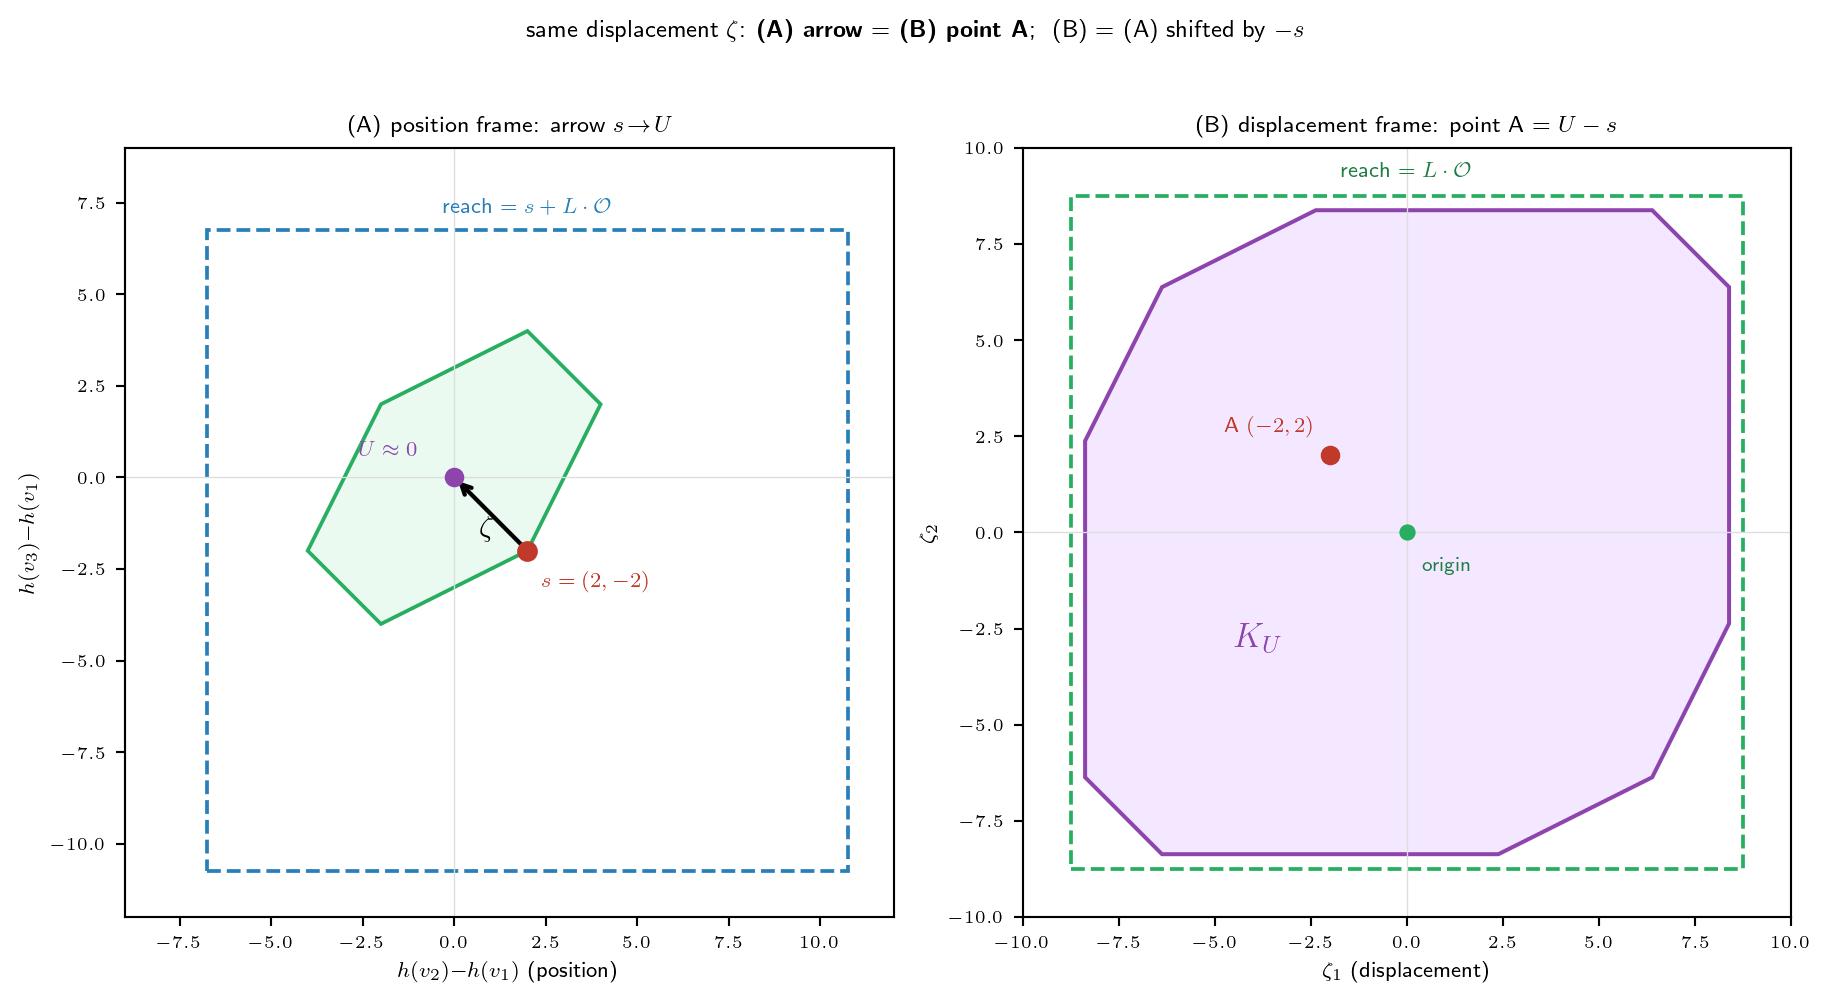
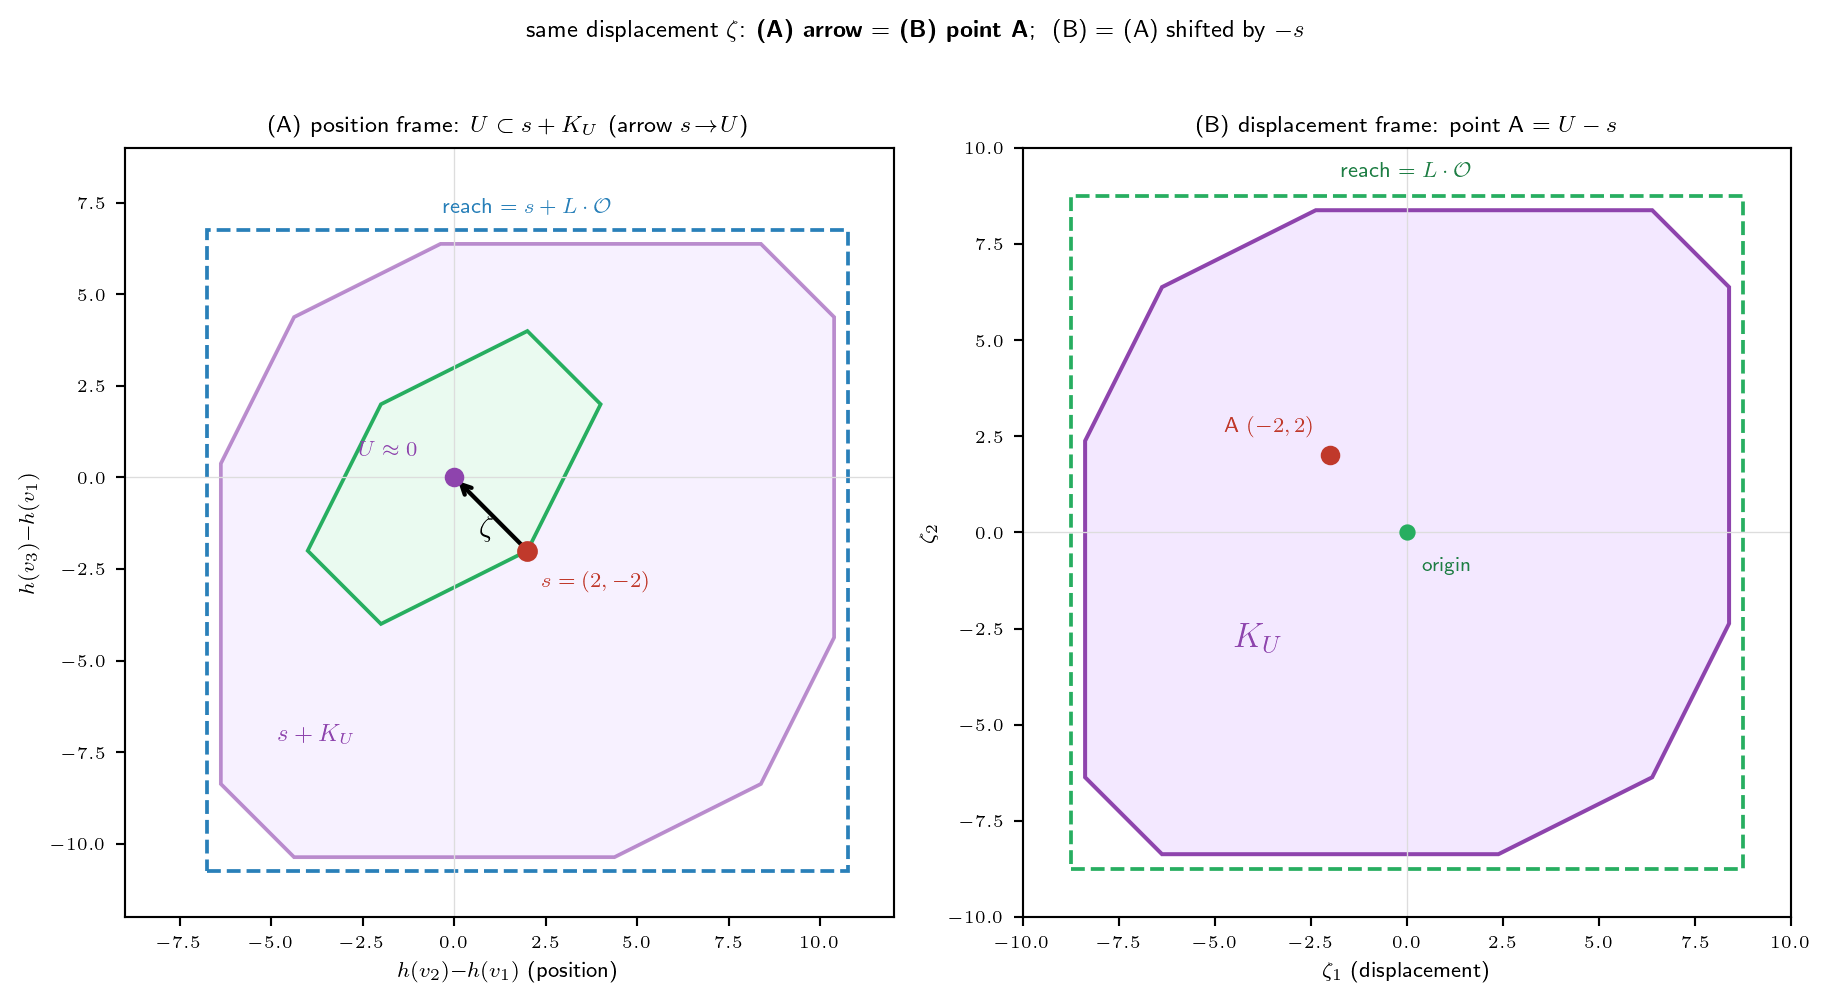
post(add): petite/K3 — 통일 그림 (A)에 s+K_U 추가, U⊂s+K_U 시각화
위치 공간에 s+K_U(평행이동 zonotope) 그려 도착 U가 그 안에 듦을 명시 (u=h̊(s)+ζ+r). U는 위치라 변위 그림 아닌 s+K_U에 든다는 점 캡션 보강.

diff --git a/docs/Posts/260605_c4e5ad.html b/docs/Posts/260605_c4e5ad.html
@@ -251,7 +251,7 @@ window.Quarto = {
 <p><strong>(1) 높이차 <span class="math inline">\(\mathring{\mathbf{h}}\)</span></strong> — <span class="math inline">\(v_1\)</span>을 기준으로 뺀 anchored 높이차: <span class="math display">\[\mathring{\mathbf{h}}(s) = \bigl(h(v_2) - h(v_1),\ h(v_3) - h(v_1)\bigr) = (7-5,\ 3-5) = (2, -2).\]</span></p>
 <p><strong>(2) 현재 노드 <span class="math inline">\(X\)</span></strong> — walker가 지금 있는 노드 (예: <span class="math inline">\(v_1\)</span>).</p>
 <p>→ 우리 예제의 상태는 <span class="math inline">\(s = \bigl((2,-2),\ v_1\bigr)\)</span>이다. (<span class="math inline">\(\mathring{\mathbf{h}}\)</span>가 절대높이 <span class="math inline">\(5,7,3\)</span>을 안 기억해도 되는 이유: 눈은 모든 노드에 똑같이 와 닿는 게 아니라 <strong>높이차</strong>만 동역학에 들어오기 때문. 높이를 통째로 <span class="math inline">\(+10\)</span> 해도 같은 상태.)</p>
-<div id="cab3b91a" class="cell" data-execution_count="1">
+<div id="50ad5644" class="cell" data-execution_count="1">
 <div class="cell-output cell-output-display">
 <div>
 <figure class="figure">
@@ -274,7 +274,7 @@ window.Quarto = {
 <p>로 정의한다. (<span class="math inline">\(K_3\)</span> 예제: <span class="math inline">\(\bar h = \tfrac{5+7+3}{3} = 5\)</span>, <span class="math inline">\(\hbar = (0, 2, -2)\)</span>, 따라서 <span class="math inline">\(M(s) = 2\)</span>.) small set은 이 <span class="math inline">\(M\)</span>의 sublevel:</p>
 <p><span class="math display">\[C_0 = \{\, M \leq M_0 \,\} \times V, \qquad \text{이 예제 } M_0 := 2.\]</span></p>
 <p>우리 <span class="math inline">\(s\)</span>는 <span class="math inline">\(M(s) = 2 = M_0\)</span>이라 <span class="math inline">\(C_0\)</span> <strong>경계</strong>(사실 꼭짓점) 위 — <span class="math inline">\(v_2\)</span>가 천장, <span class="math inline">\(v_3\)</span>가 바닥인 <strong>가장 치우친 worst case</strong>다. <span class="math inline">\(M\)</span>은 anchored 좌표 <span class="math inline">\(\mathring{\mathbf{h}}=(u_1,u_2)\)</span> (<span class="math inline">\(u_1{=}h(v_2){-}h(v_1)\)</span>, <span class="math inline">\(u_2{=}h(v_3){-}h(v_1)\)</span>)만으로도 쓸 수 있고(<span class="math inline">\(\hbar = (0,u_1,u_2)-\tfrac{u_1+u_2}{3}\mathbf{1}\)</span>), <span class="math inline">\(C_0\)</span>는 그 평면에서 <strong>육각형</strong>(<span class="math inline">\(\times V\)</span>, 꼭짓점 <span class="math inline">\(\pm(4,2),\pm(2,4),\pm(2,-2)\)</span>)으로 나타난다.</p>
-<div id="98a5d07d" class="cell" data-execution_count="2">
+<div id="8f5d3a32" class="cell" data-execution_count="2">
 <div class="cell-output cell-output-display">
 <div>
 <figure class="figure">
@@ -313,7 +313,7 @@ window.Quarto = {
 </ul>
 <p>위 밀도 하한의 유도 (왜 <span class="math inline">\(\mathcal{O}\)</span> 위에서만 <span class="math inline">\(f \geq \tfrac12\)</span>인가): 증분 밀도 <span class="math inline">\(f\)</span>는 <span class="math inline">\(b^{\sharp}_1\)</span>을 적분해 없앤 것인데, 모든 <span class="math inline">\(|b^{\sharp}_i - b^{\sharp}_1| &lt; b/4\)</span>일 때 적분 구간이 길이 <span class="math inline">\(\geq b/2\)</span>를 품어 <span class="math inline">\(f \geq b^{1-n}/2\)</span>로 떨어진다 (<span class="math inline">\(b{=}1, n{=}3\)</span>이라 <span class="math inline">\(\tfrac12\)</span>). 그 조건이 정확히 <span class="math inline">\(\mathring{\mathbf{b}}^{\sharp} \in \mathcal{O}\)</span>.</p>
 <p><strong>주의 — <span class="math inline">\(\mathcal{O}\)</span>는 “한 블록으로 갈 수 있는 전부”가 아니다.</strong> 증분 <span class="math inline">\(\mathring{\mathbf{b}}^{\sharp} = (b^{\sharp}_2 - b^{\sharp}_1,\ b^{\sharp}_3 - b^{\sharp}_1)\)</span>은 각 <span class="math inline">\(b^{\sharp}_i \in [0,b]\)</span>라, 실제 <strong>도달 영역</strong>은 박스가 아니라 <strong>육각형</strong> <span class="math display">\[\{\, \zeta : |\zeta_1| \leq b,\ |\zeta_2| \leq b,\ |\zeta_1 - \zeta_2| \leq b \,\}\]</span> 이다 (증분도 높이차 벡터라 pairwise range <span class="math inline">\(\leq b=1\)</span>). 예컨대 모서리 <span class="math inline">\((b, -b)\)</span>는 <span class="math inline">\(b^{\sharp}_1\)</span>을 공유하는 제약 때문에 도달 불가(<span class="math inline">\(|x-y|=2b &gt; b\)</span>). 박스 <span class="math inline">\(\mathcal{O}\)</span>(한 좌표 <span class="math inline">\(\pm b/4\)</span>)는 그 육각형 <strong>안쪽의 밀도 <span class="math inline">\(\geq \tfrac12\)</span> 보장 부분</strong>일 뿐이다. 증명이 박스만 쓰는 이유: 깔끔한 밀도 하한 <span class="math inline">\(b^{1-n}/2\)</span>가 거기서만 나오기 때문 (육각형 안·박스 밖은 밀도가 양수지만 그 하한은 안 나옴). 아래 그림은 (A) <strong>큰 <span class="math inline">\(C_0\)</span> 안에 한 블록 도달역(작은 육각형)이 작게 들어있는 모습</strong> — 둘 다 육각형이지만 정의가 다르다(<span class="math inline">\(C_0\)</span>는 centered <span class="math inline">\(M\leq M_0{=}2\)</span>·원점 중심, 도달역은 pairwise range <span class="math inline">\(\leq b{=}1\)</span>·<span class="math inline">\(s{=}(2,-2)\)</span> 중심) — 과 (B) 그 도달역 줌인(도달 육각형 <span class="math inline">\(\supset\)</span> 밀도박스 <span class="math inline">\(\mathcal{O}\)</span>)을 보여준다.</p>
-<div id="6e3d3cc0" class="cell" data-execution_count="3">
+<div id="3655fd71" class="cell" data-execution_count="3">
 <div class="cell-output cell-output-display">
 <div>
 <figure class="figure">
@@ -328,7 +328,7 @@ window.Quarto = {
 <p><strong>정의 (도달역).</strong> 한 블록 증분이 밀도바닥 박스 <span class="math inline">\(\mathcal{O}\)</span> 안에 있을 때, <span class="math inline">\(L\)</span>블록을 누적한 총변위가 떨어질 수 있는 곳이 곧 Minkowski 합 <span class="math inline">\(L\cdot\mathcal{O}\)</span>다. 이 집합을 <strong>도달역</strong>(reachable region)이라 부른다 — “<span class="math inline">\(L\)</span>번 걸어서 닿을 수 있는 모든 점”. 출발점 <span class="math inline">\(s\)</span>에서 시작하면 도달역은 <span class="math inline">\(s + L\cdot\mathcal{O}\)</span>로 평행이동한다.</p>
 </blockquote>
 <p><span class="math inline">\(M_0 = 2\)</span>, <span class="math inline">\(b = 1\)</span>이라 <span class="math inline">\(L = \lceil 16\cdot 2 + 3 \rceil = 35\)</span>. 그러면 <span class="math inline">\(L\cdot\mathcal{O} = (-\tfrac{L}{4}, \tfrac{L}{4})^2 = (-8.75, 8.75)^2\)</span> — <strong>출발 <span class="math inline">\(\mathring{\mathbf{h}}(s)=(2,-2)\)</span>를 원점 근처로 끌어내릴 만큼 넉넉</strong>하다. (falls가 채울 변위 <span class="math inline">\(\zeta = u - \mathring{\mathbf{h}}(s) - r \approx (0,0)-(2,-2) = (-2,2)\)</span>가 <span class="math inline">\(\pm 8.75\)</span> 안에 푹 들어옴. 여기 <span class="math inline">\(r\)</span>은 <strong>non-fall 잔차</strong>로 ③에서 정의·범위를 못박는다.)</p>
-<div id="96c436a4" class="cell" data-execution_count="4">
+<div id="cb619bb7" class="cell" data-execution_count="4">
 <div class="cell-output cell-output-display">
 <div>
 <figure class="figure">
@@ -482,7 +482,7 @@ Important
 </div>
 </div>
 <p>A는 손잡이를 거의 안 돌린 <strong>중심 근처 변위</strong>(falls가 살짝만 밀면 됨), E는 둘을 극단으로 돌린 <strong>숙제 목록의 먼 표적</strong>. 도착지 <span class="math inline">\(U\)</span>는 원점 근처 <span class="math inline">\(\pm0.006\)</span>짜리 점만 한 요새지만, “<span class="math inline">\(-\mathring{\mathbf{h}}(s)\)</span> (최대 <span class="math inline">\(2M_0{=}4\)</span>)”와 “<span class="math inline">\(-r\)</span> (최대 <span class="math inline">\(4.375\)</span>)” 두 손잡이가 그걸 <strong><span class="math inline">\(\pm8.6\)</span>짜리 큰 집합으로 부풀린 게</strong> <span class="math inline">\(K_U\)</span>다. 아래 그림이 그 집합 전체(보라 zonotope)와 표적 A–E가 도달역 안에 어떻게 드는지 보여준다.</p>
-<div id="8b713944" class="cell" data-execution_count="5">
+<div id="d22bccea" class="cell" data-execution_count="5">
 <div class="cell-output cell-output-display">
 <div>
 <figure class="figure">
@@ -496,7 +496,7 @@ Important
 <p><strong>좌표계 주의 — 이 그림은 §2②의 도달역 그림과 축이 다르다.</strong> ②(LO_reach)는 <strong>위치 공간</strong>(축 <span class="math inline">\(h(v_i){-}h(v_1)\)</span>, 도달역이 출발 <span class="math inline">\(s\)</span> 중심 <span class="math inline">\(s+L\cdot\mathcal{O}\)</span>)이고, 이 그림은 <strong>변위 공간</strong> <span class="math inline">\(\zeta\)</span>(원점 중심 <span class="math inline">\(\operatorname{int}(L\cdot\mathcal{O})\)</span>)다. 둘은 <span class="math inline">\(\zeta = (\text{도착}) - (\text{출발 } s)\)</span>로 연결돼 — <strong>②의 화살표 하나(변위 <span class="math inline">\(\approx(-2,2)\)</span>)가 여기선 점 하나(A)</strong>다. “위치 = $s + $ 변위”라, 변위 그림은 위치 그림을 <span class="math inline">\(s\)</span>만큼 원점으로 끌어온 셈.</p>
 </blockquote>
 <p><strong>두 좌표계를 한 그림에 — 같은 변위, <span class="math inline">\(-s\)</span> 평행이동.</strong> 아래 통일 비교에서 (A) 위치 공간의 <strong>화살표</strong> <span class="math inline">\(s\to U\)</span>가 (B) 변위 공간의 <strong>점 A</strong>로 그대로 옮겨간다. (B)는 (A)를 “출발 <span class="math inline">\(s\)</span>를 원점으로” 끌어온 것 — 도달역 박스도 <span class="math inline">\(s+L\cdot\mathcal{O}\)</span>(A)에서 <span class="math inline">\(L\cdot\mathcal{O}\)</span>(B)로 같이 평행이동한다.</p>
-<div id="19e8b1c7" class="cell" data-execution_count="6">
+<div id="e2903113" class="cell" data-execution_count="6">
 <div class="cell-output cell-output-display">
 <div>
 <figure class="figure">
@@ -505,7 +505,7 @@ Important
 </div>
 </div>
 </div>
-<p>(A)에서 화살표가 가리키는 변위가 (B)에서 점 A로 찍힌다. 단, (B)의 보라 <span class="math inline">\(K_U\)</span>는 <strong>이 한 출발 <span class="math inline">\(s\)</span>만이 아니라 <span class="math inline">\(C_0\)</span>의 모든 출발</strong>까지 union한 집합이라 (A)의 화살표 하나보다 크다 — 출발이 <span class="math inline">\(C_0\)</span> 안에서 움직이면 (B)의 점도 <span class="math inline">\(K_U\)</span> 안을 훑는다.</p>
+<p>(A)에서 화살표가 가리키는 변위가 (B)에서 점 A로 찍힌다. <strong>(A)의 보라 영역이 <span class="math inline">\(s+K_U\)</span></strong> — 즉 <span class="math inline">\(K_U\)</span>(변위)를 출발 <span class="math inline">\(s\)</span>만큼 평행이동한 위치 집합이고, 도착 <span class="math inline">\(U\)</span>(<span class="math inline">\(\approx\)</span>원점)가 그 안에 든다(<strong><span class="math inline">\(U \subset s+K_U\)</span></strong>, <span class="math inline">\(u = \mathring{\mathbf h}(s)+\zeta+r\)</span>이라). <span class="math inline">\(U\)</span>가 변위 그림 (B)에 직접 안 찍히는 이유가 이것 — <span class="math inline">\(U\)</span>는 위치라 <span class="math inline">\(K_U\)</span>와 만나려면 <span class="math inline">\(s\)</span>만큼 옮겨야 한다. 단, (B)의 <span class="math inline">\(K_U\)</span>는 <strong>이 한 출발 <span class="math inline">\(s\)</span>만이 아니라 <span class="math inline">\(C_0\)</span>의 모든 출발</strong>까지 union한 집합이라 (A)의 화살표 하나보다 크다 — 출발이 <span class="math inline">\(C_0\)</span> 안에서 움직이면 (B)의 점도 <span class="math inline">\(K_U\)</span> 안을 훑는다.</p>
 <div class="callout callout-style-default callout-note callout-titled">
 <div class="callout-header d-flex align-content-center collapsed" data-bs-toggle="collapse" data-bs-target=".callout-3-contents" aria-controls="callout-3" aria-expanded="false" aria-label="Toggle callout">
 <div class="callout-icon-container">
@@ -523,7 +523,7 @@ Important
 </div>
 </div>
 </div>
-<div id="fe81c624" class="cell" data-execution_count="7">
+<div id="3b48ac68" class="cell" data-execution_count="7">
 <div class="cell-output cell-output-display">
 <div>
 <figure class="figure">
